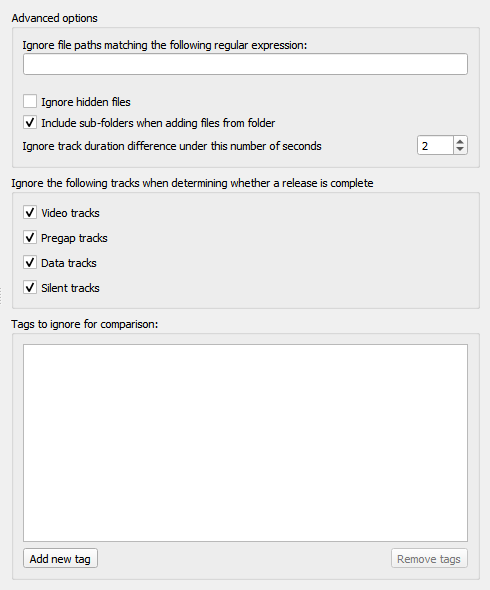
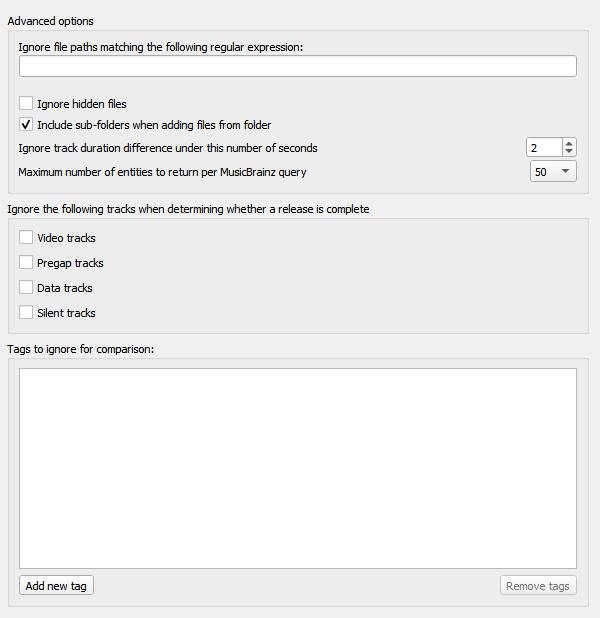
Add new "Maximum number of results..." option.  Update image.

diff --git a/config/options_advanced.rst b/config/options_advanced.rst
@@ -27,6 +27,12 @@
     This specifies the number of seconds that a file can differ in length from the length in the
     MusicBrainz database and still be considered to be the same.  The default value is 2 seconds.
 
+**Maximum number of entities to return per MusicBrainz query**
+
+    This sets the maximum number of results returned for queries made to the MusicBrainz website.
+    The default value is 50 results. On Picard v2.8.1 and earlier, this value was fixed at a
+    maximum of 25 responses.
+
 **Ignore the following tracks when determining whether a release is complete**
 
     Missing tracks of the selected type (i.e.: video, pregap, data or silence) will be ignored when
